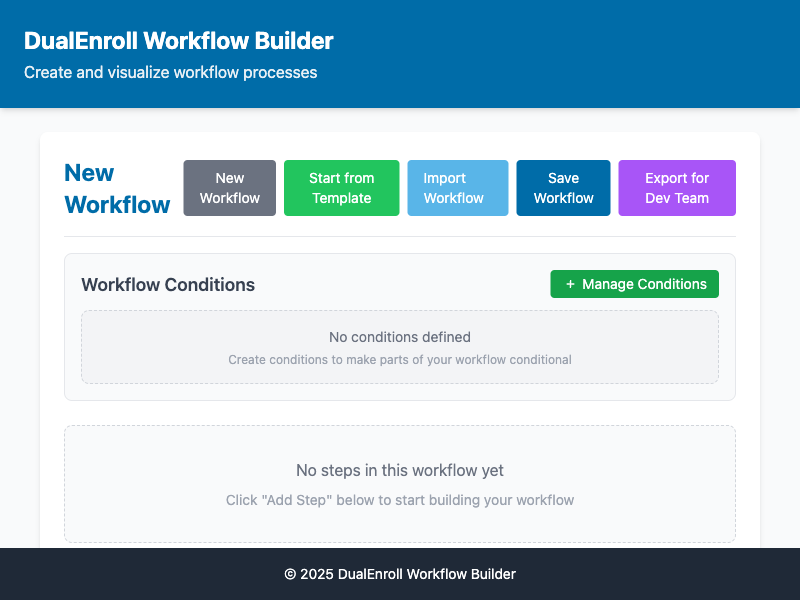
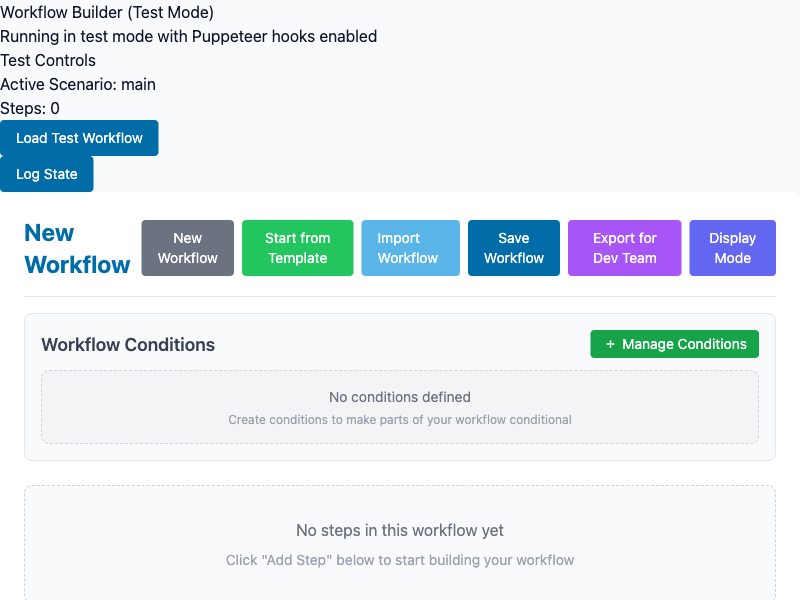
treats high school as a condition

diff --git a/src/utils/conditionalUtils.js b/src/utils/conditionalUtils.js
@@ -177,7 +177,8 @@ const formatLegacyCondition = (condition) => {
     high_school: {
       has_feeder_schools: 'Has Feeder Schools',
       payment_policy: 'Payment Policy',
-      is_home_school: 'Is Home School'
+      is_home_school: 'Is Home School',
+      is_partner: 'Is Partner School'
     },
     term: {
       past_withdraw_deadline: 'Past Withdraw Deadline',
@@ -264,8 +265,13 @@ const formatLegacyCondition = (condition) => {
 export const generateRubyCode = (condition) => {
   if (!condition) return null;
   
+  // Handle custom conditions
+  if (condition.comparison === 'custom' && condition.value) {
+    return condition.value;
+  }
+  
   // If the condition has a predefined Ruby method, use it
-  if (condition.rubyMethod) {
+  if (condition.rubyMethod && condition.rubyMethod !== 'custom') {
     // For boolean methods ending with ?
     if (condition.rubyMethod.endsWith('?')) {
       if ((condition.comparison === 'not-equals' || condition.comparison === '!=') ||
